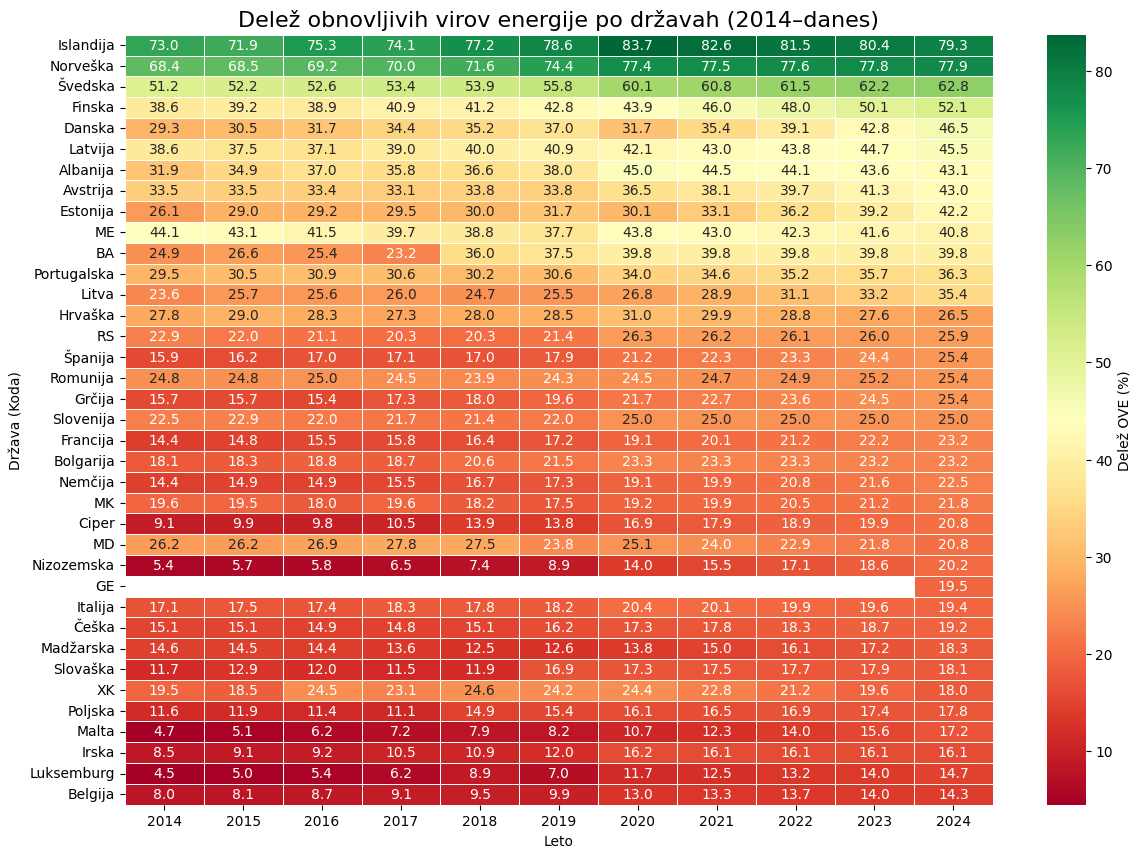
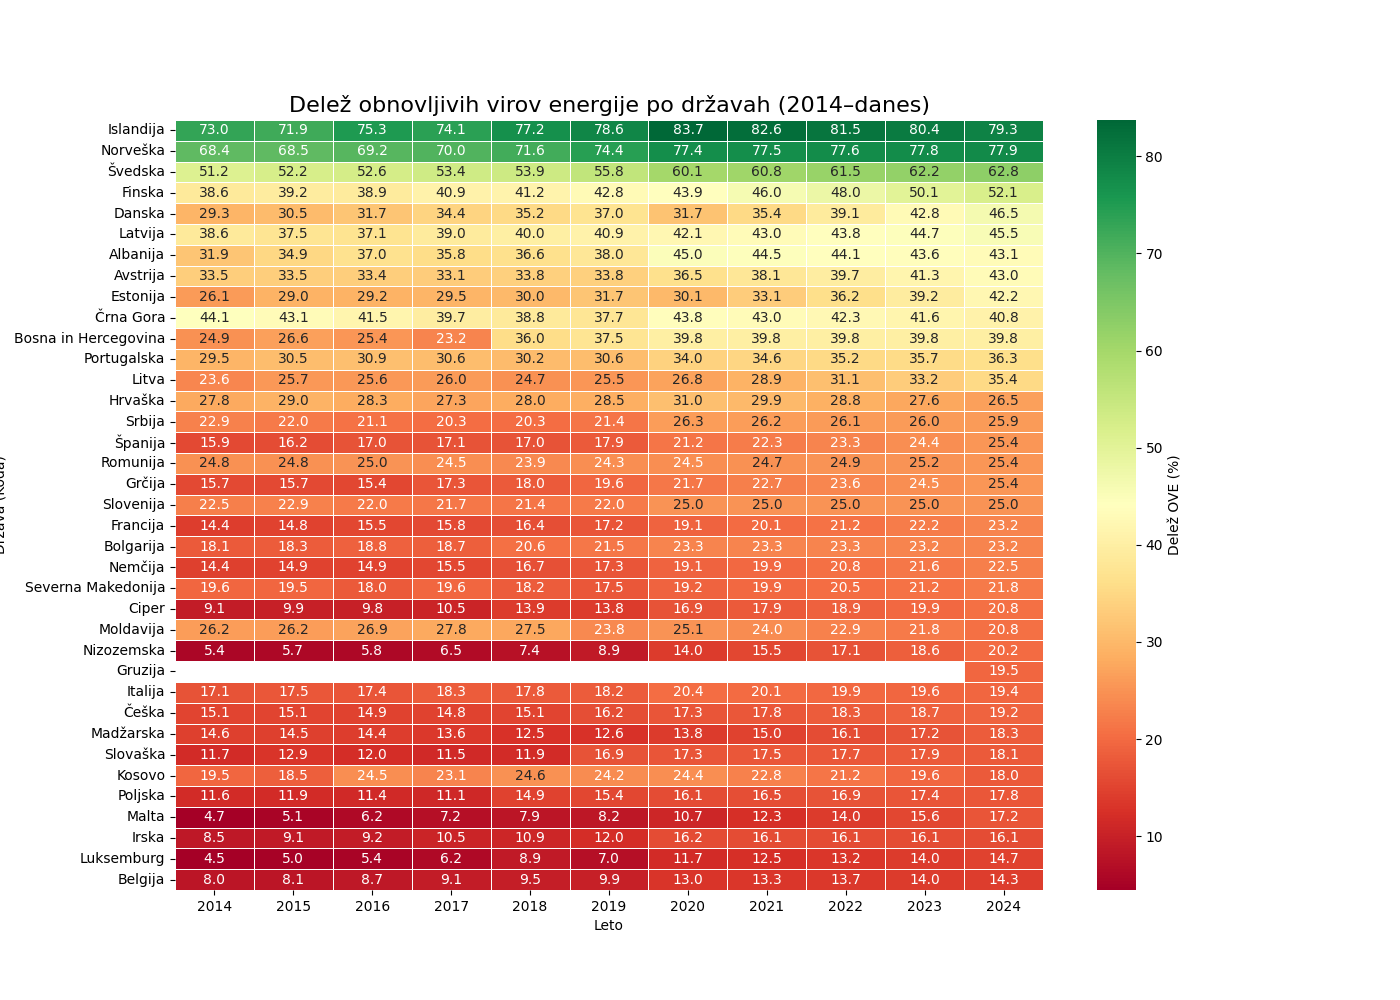
popravi manjkajoče države v slovarju in slike

diff --git a/data_utils.py b/data_utils.py
@@ -46,6 +46,7 @@ def get_country_mapping(): #Še za lažjo predstavitev držav namesto njihovih k
     return {
         'AL': 'Albanija',
         'AT': 'Avstrija',
+        'BA': 'Bosna in Hercegovina',
         'BE': 'Belgija',
         'BG': 'Bolgarija',
         'CY': 'Ciper',
@@ -57,6 +58,7 @@ def get_country_mapping(): #Še za lažjo predstavitev držav namesto njihovih k
         'ES': 'Španija',
         'FI': 'Finska',
         'FR': 'Francija',
+        'GE': 'Gruzija',
         'HR': 'Hrvaška',
         'HU': 'Madžarska',
         'IE': 'Irska',
@@ -65,15 +67,20 @@ def get_country_mapping(): #Še za lažjo predstavitev držav namesto njihovih k
         'LT': 'Litva',
         'LU': 'Luksemburg',
         'LV': 'Latvija',
+        'MD': 'Moldavija',
+        'ME': 'Črna Gora',
+        'MK': 'Severna Makedonija',
         'MT': 'Malta',
         'NL': 'Nizozemska',
         'NO': 'Norveška',
         'PL': 'Poljska',
         'PT': 'Portugalska',
         'RO': 'Romunija',
+        'RS': 'Srbija',
         'SE': 'Švedska',
         'SI': 'Slovenija',
         'SK': 'Slovaška',
+        'XK': 'Kosovo',
         'EU27_2020': 'Evropska Unija (27)'
     }
 